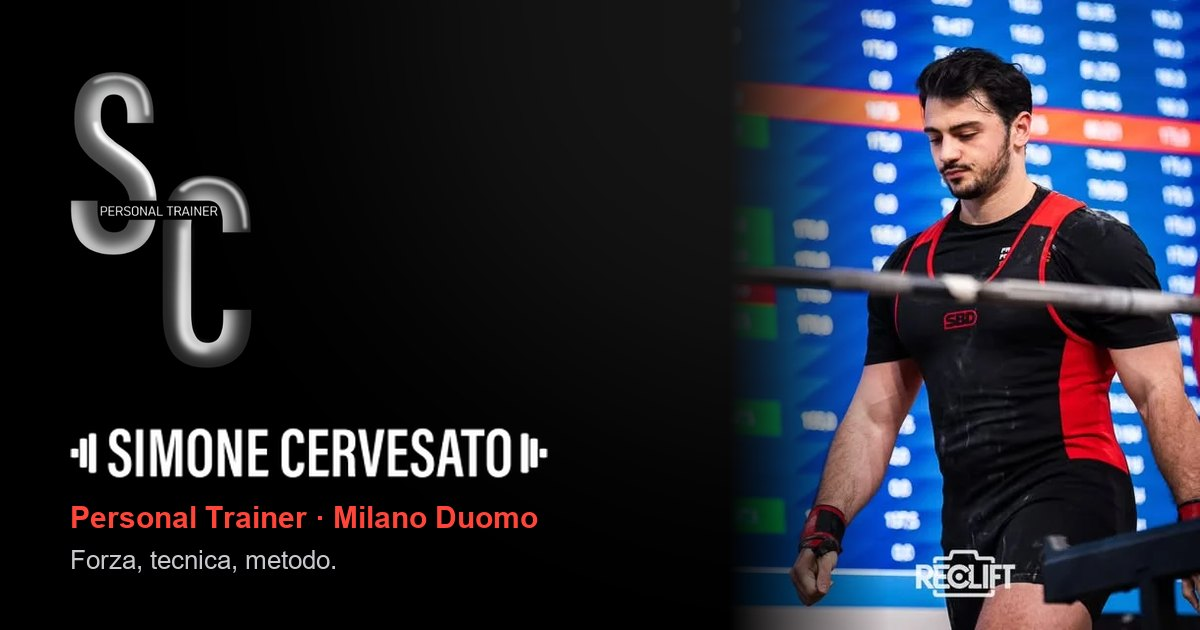
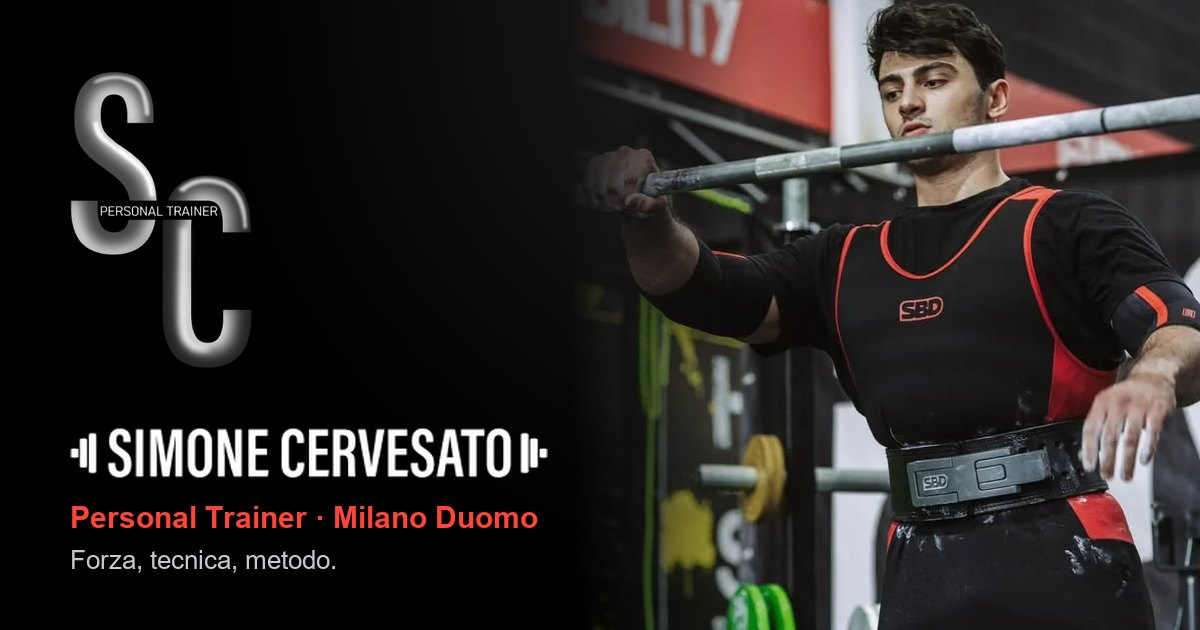
Correzioni dal controllo qualità: military press, accessibilità, menu e velocità
- Military Cup indicata come gara di military press (confermato da Simone)
- tolta la foto con il marchio del fotografo (anteprima social e risultati)
- caratteri di sistema al posto di Google Fonts; three.js minificato
- menu mobile scorrevole e chiusura con Esc/rotazione; ancora Metodo sul titolo
- numeri e capitoli leggibili dai lettori vocali; contrasto dei grigi
- shader precompilati: niente scatto al primo capitolo

diff --git a/index.html b/index.html
@@ -2,7 +2,7 @@
 <html lang="it">
 <head>
   <meta charset="UTF-8">
-  <meta name="viewport" content="width=device-width, initial-scale=1, viewport-fit=cover">
+  <meta name="viewport" content="width=device-width, initial-scale=1">
   <title>Simone Cervesato · Personal Trainer a Milano Duomo</title>
   <meta name="description" content="Simone Cervesato, personal trainer certificato ISSA Europe e istruttore di Street Lifting a Milano Duomo. Allenamenti 1:1, a domicilio, in coppia, online e preparazione gare.">
   <meta name="theme-color" content="#000000">
@@ -18,16 +18,15 @@
   <meta name="twitter:card" content="summary_large_image">
   <link rel="icon" href="favicon.png" type="image/png">
   <link rel="apple-touch-icon" href="apple-touch-icon.png">
-  <link rel="preconnect" href="https://fonts.googleapis.com">
-  <link rel="preconnect" href="https://fonts.gstatic.com" crossorigin>
-  <link href="https://fonts.googleapis.com/css2?family=Inter:wght@400;500;600;700;800&display=swap" rel="stylesheet">
+  <link rel="preconnect" href="https://cdn.jsdelivr.net" crossorigin>
+  <link rel="modulepreload" href="https://cdn.jsdelivr.net/npm/three@0.170.0/build/three.module.min.js">
   <link rel="stylesheet" href="assets/css/style.css">
   <script type="application/ld+json">
   {
     "@context": "https://schema.org",
     "@type": "ProfessionalService",
     "name": "Simone Cervesato · Personal Trainer",
-    "description": "Personal trainer a Milano: allenamenti 1:1, a domicilio, in coppia, online e preparazione gare di street lifting e panca piana.",
+    "description": "Personal trainer a Milano: allenamenti 1:1, a domicilio, in coppia, online e preparazione gare di forza (military press, panca piana, street lifting).",
     "telephone": "+393491375208",
     "email": "simonecervesato@libero.it",
     "areaServed": "Milano",
@@ -40,7 +39,7 @@
   <script type="importmap">
   {
     "imports": {
-      "three": "https://cdn.jsdelivr.net/npm/three@0.170.0/build/three.module.js",
+      "three": "https://cdn.jsdelivr.net/npm/three@0.170.0/build/three.module.min.js",
       "three/addons/": "https://cdn.jsdelivr.net/npm/three@0.170.0/examples/jsm/"
     }
   }
@@ -75,7 +74,7 @@
 
   <!-- ============ STAGE: hero + panca esplosa ============ -->
   <section class="stage" id="stage" aria-label="Il metodo, scomposto come una panca piana">
-    <span class="anchor" id="metodo" style="top:10%"></span>
+    <span class="anchor" id="metodo" style="top:14.5%"></span>
     <div class="stage-sticky">
       <div class="stage-glow" aria-hidden="true"></div>
       <canvas id="bench" aria-hidden="true"></canvas>
@@ -173,7 +172,7 @@
         <h2 class="h2" data-reveal>Ciao,<br>sono Simone.</h2>
         <p class="lead" data-reveal>Personal trainer certificato ISSA Europe, istruttore di Street Lifting e laureando in Scienze Motorie.</p>
         <p data-reveal>Da più di tre anni seguo persone a Milano con un obiettivo semplice: farle allenare bene, con costanza, e vedere risultati che durano.</p>
-        <p data-reveal>Prima di essere un coach sono un atleta. Gareggio nella forza, e ogni programma che scrivo passa dalla stessa disciplina che applico su di me: studio, provo, misuro. Poi lo porto a te.</p>
+        <p data-reveal>Prima di essere un coach sono un atleta. Gareggio nella military press e nella panca piana, e ogni programma che scrivo passa dalla stessa disciplina che applico su di me: studio, provo, misuro. Poi lo porto a te.</p>
         <ul class="creds" data-reveal-group>
           <li><strong>ISSA Europe</strong><span>Personal Trainer certificato</span></li>
           <li><strong>Street Lifting</strong><span>Istruttore certificato</span></li>
@@ -190,38 +189,38 @@
       <header class="sec-head">
         <p class="eyebrow" data-reveal>Risultati</p>
         <h2 class="h2" data-reveal>Allena ciò<br><span class="chrome">che pratica.</span></h2>
-        <p class="lead" data-reveal>Quattro edizioni della Military Cup di street lifting, quattro podi. E un carico che cresce ogni anno: la stessa progressione che costruisco con chi si allena con me.</p>
+        <p class="lead" data-reveal>Quattro edizioni della Military Cup di military press, quattro podi. E un carico che cresce ogni anno: la stessa progressione che costruisco con chi si allena con me.</p>
       </header>
 
       <div class="results-grid">
         <div class="chart card-dark" data-reveal id="chart">
-          <p class="chart-title">Military Cup · Street Lifting</p>
+          <p class="chart-title">Military Cup · Military press</p>
           <div class="bars">
-            <div class="bar" style="--kg:93"><b class="kg" data-count="93">0</b><i class="col"></i><span class="medal bronze">3°</span><em>2023</em></div>
-            <div class="bar" style="--kg:113"><b class="kg" data-count="113">0</b><i class="col"></i><span class="medal silver">2°</span><em>2024</em></div>
-            <div class="bar" style="--kg:116"><b class="kg" data-count="116">0</b><i class="col"></i><span class="medal gold">1°</span><em>2025</em></div>
-            <div class="bar" style="--kg:124"><b class="kg" data-count="124">0</b><i class="col"></i><span class="medal gold">1°</span><em>2026</em></div>
+            <div class="bar" style="--kg:93"><b class="kg" data-count="93">93</b><i class="col"></i><span class="medal bronze">3°</span><em>2023</em></div>
+            <div class="bar" style="--kg:113"><b class="kg" data-count="113">113</b><i class="col"></i><span class="medal silver">2°</span><em>2024</em></div>
+            <div class="bar" style="--kg:116"><b class="kg" data-count="116">116</b><i class="col"></i><span class="medal gold">1°</span><em>2025</em></div>
+            <div class="bar" style="--kg:124"><b class="kg" data-count="124">124</b><i class="col"></i><span class="medal gold">1°</span><em>2026</em></div>
           </div>
-          <p class="chart-note">Carico in kg per edizione</p>
+          <p class="chart-note">Military press, carico in kg per edizione</p>
         </div>
         <div class="stats">
           <div class="stat card-dark" data-reveal>
-            <p class="stat-num"><span class="chrome" data-count="185">0</span><small>kg</small></p>
+            <p class="stat-num"><span class="chrome" data-count="185">185</span><small>kg</small></p>
             <p class="stat-label">di panca piana in gara</p>
           </div>
           <div class="stat card-dark" data-reveal>
-            <p class="stat-num"><span class="chrome">+</span><span class="chrome" data-count="31">0</span><small>kg</small></p>
+            <p class="stat-num"><span class="chrome">+</span><span class="chrome" data-count="31">31</span><small>kg</small></p>
             <p class="stat-label">in quattro edizioni della Military Cup</p>
           </div>
           <div class="stat card-dark" data-reveal>
-            <p class="stat-num"><span class="chrome" data-count="2">0</span><small>ori</small></p>
+            <p class="stat-num"><span class="chrome" data-count="2">2</span><small>ori</small></p>
             <p class="stat-label">consecutivi, 2025 e 2026</p>
           </div>
         </div>
       </div>
 
       <div class="results-photos">
-        <figure class="ph" data-reveal><img src="assets/img/gara-concentrazione.webp" alt="Simone Cervesato concentrato prima di un'alzata in gara" loading="lazy"><figcaption>La concentrazione prima dell’alzata.</figcaption></figure>
+        <figure class="ph" data-reveal><img src="assets/img/gara-pedana.webp" alt="Simone Cervesato mentre va verso la pedana di gara" loading="lazy"><figcaption>Verso la pedana.</figcaption></figure>
         <figure class="ph" data-reveal><img src="assets/img/gara-panca-medaglia.webp" alt="Simone Cervesato seduto sulla panca con la medaglia al collo" loading="lazy"><figcaption>Sulla panca, con la medaglia.</figcaption></figure>
         <figure class="ph" data-reveal><img src="assets/img/gara-podio.webp" alt="Simone Cervesato sul podio con la medaglia" loading="lazy"><figcaption>Sul podio.</figcaption></figure>
       </div>
@@ -253,7 +252,7 @@
         </article>
         <article class="tile" data-reveal>
           <svg class="tile-ico" viewBox="0 0 48 48" aria-hidden="true"><circle cx="17" cy="15" r="6"/><circle cx="33" cy="17" r="5"/><path d="M5 40c0-7 5-12 12-12s12 5 12 12M28 29c1-.6 3-1 5-1 6 0 10 4 10 11"/></svg>
-          <p class="tile-tag">In due o tre</p>
+          <p class="tile-tag">Insieme</p>
           <h3>Coppia e piccoli gruppi</h3>
           <p>Più motivazione, stessa cura del dettaglio. Perfetto con il partner o con un amico.</p>
         </article>
@@ -267,7 +266,7 @@
           <div class="tile-body">
             <p class="tile-tag">Per atleti</p>
             <h3>Preparazione gare</h3>
-            <p>Street lifting e panca piana: dalla programmazione al giorno della gara, con l’esperienza di chi in pedana ci sale davvero.</p>
+            <p>Military press, panca piana e street lifting: dalla programmazione al giorno della gara, con l’esperienza di chi in pedana ci sale davvero.</p>
           </div>
           <svg class="tile-medal" viewBox="0 0 120 120" aria-hidden="true">
             <path d="M42 8h14l8 30M78 8H64l-8 30" />
@@ -294,7 +293,6 @@
           <h3>Factory Gym Club</h3>
           <p class="place-where">Milano Duomo</p>
           <p>La mia palestra di riferimento, nel centro di Milano.</p>
-          <p class="coords" aria-hidden="true">45.4642° N · 9.1900° E</p>
         </article>
         <article class="place" data-reveal>
           <h3>BULB</h3>
@@ -343,8 +341,7 @@
         <button class="round" data-dir="1" aria-label="Foto successive"><svg viewBox="0 0 24 24"><path d="M9 5l7 7-7 7"/></svg></button>
       </div>
     </div>
-    <div class="strip" id="strip" tabindex="0" aria-label="Foto di Simone">
-      <figure><img src="assets/img/gara-concentrazione.webp" alt="In gara, concentrato sulla pedana" loading="lazy"></figure>
+    <div class="strip" id="strip" tabindex="0" role="region" aria-label="Foto di Simone">
       <figure><img src="assets/img/fisico.webp" alt="Ritratto di Simone Cervesato" loading="lazy"></figure>
       <figure><img src="assets/img/gara-podio.webp" alt="Sul podio con i compagni di gara" loading="lazy"></figure>
       <figure><img src="assets/img/stacco.webp" alt="Stacco da terra con dischi blu" loading="lazy"></figure>
@@ -382,7 +379,7 @@
         </details>
         <details>
           <summary>Segui anche chi vuole gareggiare?</summary>
-          <p>Sì. Street lifting e panca piana sono le mie discipline: ti preparo dalla programmazione fino al giorno della gara.</p>
+          <p>Sì. Gareggio nella military press e nella panca piana e sono istruttore di street lifting: ti preparo dalla programmazione fino al giorno della gara.</p>
         </details>
         <details>
           <summary>Posso allenarmi con il partner o con un amico?</summary>

diff --git a/assets/js/main.js b/assets/js/main.js
@@ -6,6 +6,12 @@
   const ss = (a, b, v) => { const t = clamp((v - a) / (b - a)); return t * t * (3 - 2 * t); };
   const mqMobile = matchMedia('(max-width: 760px)');
 
+  // browser senza import map (Safari < 16.4): il 3D non può partire, mostra subito la foto
+  if (!(HTMLScriptElement.supports && HTMLScriptElement.supports('importmap'))) {
+    document.documentElement.classList.add('no-webgl');
+  }
+  const reduceMotion = matchMedia('(prefers-reduced-motion: reduce)').matches;
+
   const PHONE = '393491375208';
   const EMAIL = 'simonecervesato@libero.it';
 
@@ -14,16 +20,17 @@
   /* ---------- nav ---------- */
   const nav = $('#nav');
   const burger = $('#burger');
-  burger.addEventListener('click', () => {
-    const open = nav.classList.toggle('open');
+  const setMenu = open => {
+    nav.classList.toggle('open', open);
     burger.setAttribute('aria-expanded', open);
     document.body.style.overflow = open ? 'hidden' : '';
+  };
+  burger.addEventListener('click', () => setMenu(!nav.classList.contains('open')));
+  $$('#nav-links a, .nav-cta, .brand').forEach(a => a.addEventListener('click', () => setMenu(false)));
+  matchMedia('(max-width: 980px)').addEventListener('change', e => { if (!e.matches) setMenu(false); });
+  addEventListener('keydown', e => {
+    if (e.key === 'Escape' && nav.classList.contains('open')) { setMenu(false); burger.focus(); }
   });
-  $$('#nav-links a').forEach(a => a.addEventListener('click', () => {
-    nav.classList.remove('open');
-    burger.setAttribute('aria-expanded', 'false');
-    document.body.style.overflow = '';
-  }));
 
   const navLinks = $$('#nav-links a[href^="#"]:not(.nav-links-cta)');
   const sections = navLinks.map(a => $(a.getAttribute('href'))).filter(Boolean);
@@ -39,10 +46,11 @@
 
   window.STAGE = { p: 0, e: 0, k: -1, h: 0, local: 0, chapters: { C0, C1, N, SPAN } };
 
-  const show = (el, o, y) => {
+  // hide=true solo per i livelli con link (hero, finale): gli altri restano leggibili dai lettori vocali
+  const show = (el, o, y, hide = true) => {
     el.style.opacity = o.toFixed(3);
     el.style.transform = `translateY(${y.toFixed(1)}px)`;
-    el.style.visibility = o < 0.01 ? 'hidden' : 'visible';
+    if (hide) el.style.visibility = o < 0.01 ? 'hidden' : 'visible';
   };
 
   function updateStage() {
@@ -52,10 +60,10 @@
 
     const heroO = 1 - ss(0.012, 0.065, p);
     show(L.hero, heroO, -(1 - heroO) * 60);
-    show(L.cue, 1 - ss(0, 0.025, p), 0);
+    show(L.cue, 1 - ss(0, 0.025, p), 0, false);
 
     const tIn = ss(0.085, 0.125, p), tOut = ss(0.185, 0.215, p);
-    show(L.title, tIn * (1 - tOut), (1 - tIn) * 40 - tOut * 40);
+    show(L.title, tIn * (1 - tOut), (1 - tIn) * 40 - tOut * 40, false);
 
     const e = p < 0.5 ? ss(0.07, 0.2, p) : 1 - ss(0.815, 0.9, p);
 
@@ -73,7 +81,6 @@
         y = (1 - a) * 44 - b * 44;
       }
       c.style.opacity = o.toFixed(3);
-      c.style.visibility = o < 0.01 ? 'hidden' : 'visible';
       c.style.transform = mobile ? `translateY(${y.toFixed(1)}px)` : `translateY(calc(-50% + ${y.toFixed(1)}px))`;
     });
     const h = ss(C0 - 0.012, C0 + 0.01, p) * (1 - ss(C1 - 0.01, C1 + 0.012, p));
@@ -172,7 +179,17 @@
 
   /* ---------- numeri che salgono + grafico ---------- */
   $$('.bar').forEach((b, i) => b.style.setProperty('--i', i));
+  // il valore vero resta nel testo per i lettori vocali; quello animato parte da 0
+  $$('[data-count]').forEach(el => {
+    const sr = document.createElement('span');
+    sr.className = 'sr-only';
+    sr.textContent = el.dataset.count;
+    el.after(sr);
+    el.setAttribute('aria-hidden', 'true');
+    if (!reduceMotion) el.textContent = '0';
+  });
   const countUp = el => {
+    if (reduceMotion) return;
     const to = +el.dataset.count;
     const t0 = performance.now();
     const dur = 1500 + to * 2;
@@ -229,7 +246,7 @@
     const modes = picked('mode');
     const msg = $('#f-msg').value.trim();
     const lines = [`Ciao Simone! Sono ${name}.`];
-    if (goals.length) lines.push(`Obiettivo: ${goals.join(', ')}.`);
+    if (goals.length) lines.push(`${goals.length > 1 ? 'Obiettivi' : 'Obiettivo'}: ${goals.join(', ').toLowerCase()}.`);
     if (modes.length) lines.push(`Preferisco allenarmi: ${modes.join(', ').toLowerCase()}.`);
     if (msg) lines.push('', msg);
     lines.push('', '(Messaggio inviato dal sito)');

diff --git a/assets/css/style.css b/assets/css/style.css
@@ -7,7 +7,7 @@
   --bg: #000;
   --ink: #f5f5f7;
   --muted: #a1a1a6;
-  --muted-2: #6e6e73;
+  --muted-2: #8e8e93;
   --line: rgba(255, 255, 255, .12);
   --card: #0f0f11;
   --card-2: #1c1c1e;
@@ -20,7 +20,7 @@
   --wrap: 1180px;
   --nav-h: 52px;
   --ease: cubic-bezier(.2, .75, .15, 1);
-  --font: "SF Pro Display", -apple-system, BlinkMacSystemFont, "Inter", "Helvetica Neue", Arial, sans-serif;
+  --font: -apple-system, BlinkMacSystemFont, "SF Pro Display", "Segoe UI Variable Display", "Segoe UI", Roboto, "Helvetica Neue", Arial, sans-serif;
 }
 
 *, *::before, *::after { box-sizing: border-box; }
@@ -85,6 +85,7 @@ button { font: inherit; color: inherit; }
   background-clip: text;
 }
 .br-sm { display: none; }
+.sr-only { position: absolute; width: 1px; height: 1px; overflow: hidden; clip: rect(0 0 0 0); white-space: nowrap; }
 
 /* ---------- bottoni ---------- */
 .pill {
@@ -181,9 +182,7 @@ button { font: inherit; color: inherit; }
   transition: opacity 1.4s var(--ease);
 }
 .webgl-ready #bench { opacity: 1; }
-.stage-fallback { display: none; }
-.no-webgl .stage-fallback {
-  display: block;
+.stage-fallback {
   position: absolute;
   left: 50%;
   bottom: 6vh;
@@ -191,10 +190,13 @@ button { font: inherit; color: inherit; }
   transform: translateX(-50%);
   border-radius: var(--radius);
   overflow: hidden;
-  opacity: .55;
+  opacity: 0;
+  pointer-events: none;
+  transition: opacity 1.4s var(--ease);
   -webkit-mask-image: linear-gradient(#000 55%, transparent);
   mask-image: linear-gradient(#000 55%, transparent);
 }
+.no-webgl .stage-fallback { opacity: .55; }
 
 .hero-copy {
   position: absolute;
@@ -219,9 +221,10 @@ button { font: inherit; color: inherit; }
 
 .scroll-cue {
   position: absolute;
-  left: 50%;
+  left: 0;
+  right: 0;
   bottom: 26px;
-  transform: translateX(-50%);
+  pointer-events: none;
   display: flex;
   flex-direction: column;
   align-items: center;
@@ -385,7 +388,7 @@ button { font: inherit; color: inherit; }
 /* ---------- sezioni ---------- */
 section.light { background: var(--light-bg); color: var(--light-ink); }
 .light .lead { color: var(--light-muted); }
-.light .eyebrow { color: var(--red-deep); }
+.light .eyebrow { color: #c41e26; }
 .about, .results, .services, .where, .steps, .gallery, .faq, .contact {
   padding: clamp(96px, 13vw, 170px) 0;
 }
@@ -533,7 +536,7 @@ section.light { background: var(--light-bg); color: var(--light-ink); }
   display: flex;
   flex-direction: column;
   justify-content: flex-end;
-  transition: transform .5s var(--ease), box-shadow .5s var(--ease);
+  transition: opacity 1.1s var(--ease) var(--d, 0s), transform .5s var(--ease), box-shadow .5s var(--ease);
 }
 .tile:hover { transform: translateY(-4px); box-shadow: 0 30px 60px -30px rgba(0, 0, 0, .3); }
 .tile h3 { font-size: clamp(1.6rem, 2.3vw, 2rem); font-weight: 700; letter-spacing: -.035em; line-height: 1.08; }
@@ -677,8 +680,8 @@ section.light { background: var(--light-bg); color: var(--light-ink); }
   scroll-padding-inline: max(24px, (100vw - var(--wrap)) / 2);
   padding: 0 max(24px, (100vw - var(--wrap)) / 2) 8px;
   scrollbar-width: none;
-  outline: none;
 }
+.strip:focus-visible { outline: 2px solid #2997ff; outline-offset: -2px; }
 .strip::-webkit-scrollbar { display: none; }
 .strip figure {
   flex: 0 0 clamp(250px, 27vw, 370px);
@@ -767,7 +770,7 @@ section.light { background: var(--light-bg); color: var(--light-ink); }
   transition: border-color .2s, box-shadow .2s;
   resize: vertical;
 }
-.field input::placeholder, .field textarea::placeholder { color: #636366; }
+.field input::placeholder, .field textarea::placeholder { color: #8e8e93; }
 .field input:focus, .field textarea:focus { outline: none; border-color: #8e8e93; box-shadow: 0 0 0 4px rgba(255, 255, 255, .08); }
 .field input.invalid { border-color: var(--red); }
 .chips { display: flex; flex-wrap: wrap; gap: 8px; }
@@ -838,6 +841,8 @@ section.light { background: var(--light-bg); color: var(--light-ink); }
     flex-direction: column;
     gap: 0;
     padding: 18px 28px 40px;
+    overflow-y: auto;
+    overscroll-behavior: contain;
     background: rgba(0, 0, 0, .96);
     -webkit-backdrop-filter: blur(20px);
     backdrop-filter: blur(20px);

diff --git a/assets/js/stage.js b/assets/js/stage.js
@@ -254,9 +254,9 @@ function plateTexture(label) {
   g.fillStyle = '#fff';
   g.textAlign = 'center';
   g.textBaseline = 'middle';
-  g.font = '700 74px Inter, Arial, sans-serif';
+  g.font = '700 74px -apple-system, "Segoe UI", Roboto, Arial, sans-serif';
   g.fillText(label, 256, 62);
-  g.font = '700 46px Inter, Arial, sans-serif';
+  g.font = '700 46px -apple-system, "Segoe UI", Roboto, Arial, sans-serif';
   g.fillText('KG', 256, 452);
   g.fillRect(40, 250, 34, 12);
   g.fillRect(438, 250, 34, 12);
@@ -371,6 +371,10 @@ function applyGroup(g, o, force) {
   }
 }
 function applyAll(force) { GROUPS.forEach(g => applyGroup(g, groupOpacity[g], force)); }
+// prepara subito anche le versioni trasparenti dei materiali (servono quando un gruppo si "spegne"),
+// così il primo capitolo non blocca lo scroll per compilare gli shader
+GROUPS.forEach(g => applyGroup(g, 0.5, true));
+renderer.compile(scene, cam);
 applyAll(true);
 
 /* ---------- camera ---------- */

diff --git a/README.md b/README.md
@@ -21,7 +21,8 @@ poi aprire http://localhost:8000
 ## Da completare
 
 - Foto originali in alta qualità (quelle di Instagram sono 640 px)
-- Foto di gara con il marchio del fotografo (RECLIFT): chiedere l'ok o usare originali
+- Foto di gara con il marchio del fotografo (RECLIFT, `gara-concentrazione.webp`): tolta dal sito finché non c'è l'ok; si può rimettere nei Risultati e nella galleria
 - Sigla della federazione della gara di panca (185 kg): scritta senza sigla
+- Caratteri: si usano quelli di sistema (SF su Apple, Segoe UI su Windows, Roboto su Android), niente Google Fonts
 - Pagina privacy (il modulo non salva dati: apre WhatsApp o l'email)
 - Dominio simonecervesato.it
